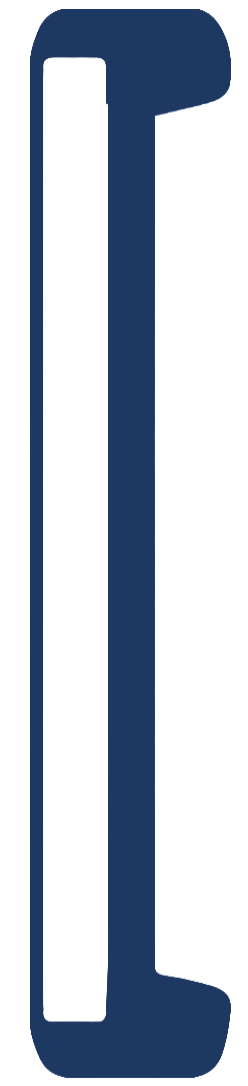
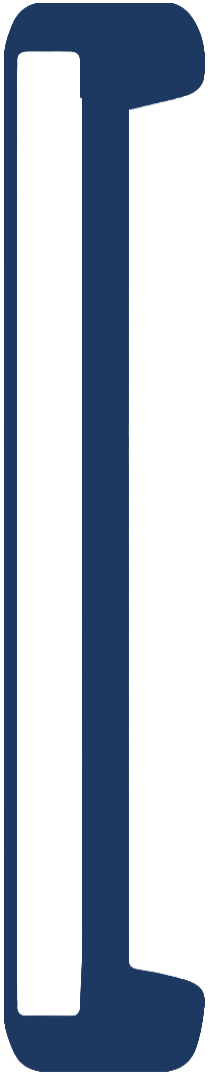
add ui changes and refactoring to pages

Changed region(s): [[0.0, 0.0, 0.9714, 1.0], [0.6, 0.092, 0.8286, 0.9201]]

diff --git a/rmr/app/search/page.tsx b/rmr/app/search/page.tsx
@@ -3,6 +3,9 @@
 import { useState, useEffect } from "react";
 import { useUser, UserButton, SignInButton } from "@clerk/nextjs";
 import { useRouter } from "next/navigation";
+import TopFridge from "@/components/TopFridge";
+import AuthHeader from "@/components/AuthHeader";
+import SearchForm from "@/components/SearchForm";
 
 export default function SearchPage() {
   const [searchType, setSearchType] = useState("roommate");
@@ -17,7 +20,7 @@ export default function SearchPage() {
     const location = locationQuery.trim();
 
     if (searchType === "roommate" && !query && !location) return;
-    if (searchType === "place" && !location) return;
+    if (searchType === "places" && !location) return;
 
     try {
       const res = await fetch("/api/search", {
@@ -26,7 +29,7 @@ export default function SearchPage() {
         body: JSON.stringify({
           searchType,
           roommateName: searchType === "roommate" ? query : undefined,
-          location: searchType === "place" ? location : location || undefined,
+          location: searchType === "places" ? location : location || undefined,
         }),
       });
 
@@ -53,99 +56,33 @@ export default function SearchPage() {
 
   return (
     <main className="min-h-screen bg-[#315d8d] pl-4 pr-4">
-      <div className="bg-[#f5f5f5] rounded-[96px] shadow-lg p-8 min-h-screen">
-        {/* Fridge handle */}
-        <img
-          src="/handle.png"
-          alt="Fridge Handle"
-          className="absolute left-0 ml-24 top-[7.5rem] w-36 h-auto object-contain"
-        />
-
-        {/* shineeeee left */}
-        <img
-          src="/shine-left-crop.png"
-          alt="shine"
-          className="absolute left-0 top-0 mt-1 ml-6 w-xs h-auto object-cover"
-        />
-        {/* shineeeee right */}
-        <img
-          src="/shine-right-crop.png"
-          alt="shine"
-          className="absolute right-0 top-0 mt-1 mr-6 w-xs h-auto object-cover"
-        />
-
-        <div className="absolute top-20 right-28 z-50">
-          {isSignedIn ? (
-            <UserButton /> // Clerk's UserButton will display the user's profile
-          ) : (
-            <SignInButton mode="modal">
-              <button className="bg-navy-blue text-white px-4 py-2 rounded-full hover:bg-navy-blue/90 ml-90">
-                Log In
-              </button>
-            </SignInButton>
-          )}
-        </div>
+      <TopFridge>
+        <AuthHeader></AuthHeader>
+        <div className="absolute top-0 left-0 mt-[3.5em] ml-[6rem] w-[7rem] h-auto z-50">
+          <img src="logo.png" alt="Logo"/>
+          </div>
 
         {/* Search Form Inline */}
         <div className="flex flex-col items-center gap-6 mt-[13rem] font-lazyDog">
           {/* Heading */}
-          <h1 className="text-[10rem] font-lazyDog text-darkblue text-center leading-none">
+          <h1 className="text-[9rem] font-lazyDog text-darkblue text-center leading-none">
             Search
           </h1>
           <p className="text-lg text-darkblue italic text-center -mt-7">
             Search for a roommate or housing.
           </p>
 
-          {/* Inline Form */}
-          <div className="flex flex-col sm:flex-row gap-2 w-64 max-w-5xl justify-center mt-5">
-            {/* Select */}
-            <select
-              value={searchType}
-              onChange={(e) => setSearchType(e.target.value)}
-              className="px-4 py-2 rounded-md bg-[#d8e1ec] border font-lazyDog text-darkblue"
-            >
-              <option value="roommate">Roommate</option>
-              <option value="place">Apartment/Dorm</option>
-            </select>
-
-            {/* Roommate-specific inputs */}
-            {searchType === "roommate" ? (
-              <>
-                <input
-                  type="text"
-                  placeholder="Roommate Name"
-                  value={searchQuery}
-                  onChange={(e) => setSearchQuery(e.target.value)}
-                  className="flex-1 px-4 py-2 border border-darkblue rounded-md"
-                />
-                <input
-                  type="text"
-                  placeholder="Where They Lived"
-                  value={locationQuery}
-                  onChange={(e) => setLocationQuery(e.target.value)}
-                  className="flex-1 px-4 py-2 border border-darkblue rounded-md"
-                />
-              </>
-            ) : (
-              <input
-                type="text"
-                placeholder="Search for apartment"
-                value={locationQuery}
-                onChange={(e) => setLocationQuery(e.target.value)}
-                className="flex-1 px-4 py-2 border border-darkblue rounded-md"
-              />
-            )}
-
-            {/* GO Button */}
-            <button
-              onClick={handleSearch}
-              className="bg-darkblue text-white px-6 py-2 rounded-lg font-bold font-lazyDog hover:bg-blue-800 hover:transition"
-            >
-              GO
-            </button>
-          </div>
+          <SearchForm
+            searchType={searchType}
+            searchQuery={searchQuery}
+            locationQuery={locationQuery}
+            setSearchType={setSearchType}
+            setSearchQuery={setSearchQuery}
+            setLocationQuery={setLocationQuery}
+            onSearch={handleSearch}
+          />
         </div>
-      </div>
+      </TopFridge>
     </main>
   );
 }

diff --git a/rmr/components/SearchForm.tsx b/rmr/components/SearchForm.tsx
@@ -1,0 +1,71 @@
+// components/SearchForm.tsx
+import React from "react";
+
+type Props = {
+  searchType: string;
+  searchQuery: string;
+  locationQuery: string;
+  setSearchType: (value: string) => void;
+  setSearchQuery: (value: string) => void;
+  setLocationQuery: (value: string) => void;
+  onSearch: () => void;
+};
+
+export default function SearchForm({
+  searchType,
+  searchQuery,
+  locationQuery,
+  setSearchType,
+  setSearchQuery,
+  setLocationQuery,
+  onSearch,
+}: Props) {
+  return (
+    <div className="flex items-center gap-1">
+      <select
+        value={searchType}
+        onChange={(e) => setSearchType(e.target.value)}
+        className="px-4 py-2 rounded-md bg-[#d8e1ec] border text-darkblue"
+      >
+        <option value="roommate">Roommate</option>
+        <option value="housing">Housing</option>
+      </select>
+
+      <div className="w-[25rem] flex gap-1">
+        {searchType === "roommate" ? (
+          <>
+            <input
+              type="text"
+              placeholder="Roommate Name"
+              value={searchQuery}
+              onChange={(e) => setSearchQuery(e.target.value)}
+              className="w-1/2 px-4 py-2 border border-darkblue rounded-md"
+            />
+            <input
+              type="text"
+              placeholder="Housing Lived"
+              value={locationQuery}
+              onChange={(e) => setLocationQuery(e.target.value)}
+              className="w-1/2 px-4 py-2 border border-darkblue rounded-md"
+            />
+          </>
+        ) : (
+          <input
+            type="text"
+            placeholder="Apartment/Dorm Name"
+            value={locationQuery}
+            onChange={(e) => setLocationQuery(e.target.value)}
+            className="w-full px-4 py-2 border border-darkblue rounded-md"
+          />
+        )}
+      </div>
+
+      <button
+        onClick={onSearch}
+        className="bg-darkblue text-white px-6 py-2 rounded-lg font-bold font-lazyDog hover:bg-blue-800 hover:transition"
+      >
+        GO
+      </button>
+    </div>
+  );
+}

diff --git a/rmr/components/BottomFridge.tsx b/rmr/components/BottomFridge.tsx
@@ -13,19 +13,19 @@ export default function BottomFridge({
         style={{ boxShadow: "0 -4px 4px -2px rgba(0, 0, 0, 0.2)" }}
       >
         <img
-          src="/handle.png"
+          src="/handle-short.png"
           alt="Fridge Handle"
-          className="absolute left-0 ml-24 top-0 mt-28 w-36 h-auto object-contain"
+          className="absolute left-0 ml-24 top-0 mt-24 w-36 h-auto object-contain z-0"
         />
         <img
           src="/shine-left.png"
           alt="shine"
-          className="absolute left-0 top-0 mt-3 ml-4 w-xs h-auto object-contain"
+          className="absolute left-0 top-0 mt-3 ml-4 w-xs h-auto object-contain z-0"
         />
         <img
           src="/shine-right.png"
           alt="shine"
-          className="absolute right-0 top-0 mt-3 mr-4 w-xs h-auto object-contain"
+          className="absolute right-0 top-0 mt-3 mr-4 w-xs h-auto object-contain z-0"
         />
 
         {children}

diff --git a/rmr/app/layout.tsx b/rmr/app/layout.tsx
@@ -23,7 +23,7 @@ export default function RootLayout({
         variables: {
           colorPrimary: "#1e3a8a",
           borderRadius: "8px",
-          fontFamily: "'Lazy Dog', cursive",
+          fontFamily: "'Lazy Dog', sans-serif",
         },
       }}
       localization={{
@@ -44,7 +44,7 @@ export default function RootLayout({
       afterSignUpUrl="/search"
     >
       <html lang="en">
-        <body style={{ fontFamily: "'Lazy Dog', cursive" }}>
+        <body style={{ fontFamily: "'Lazy Dog', sans-serif" }}>
           {children}
         </body>
       </html>

diff --git a/rmr/components/TopFridge.tsx b/rmr/components/TopFridge.tsx
@@ -12,9 +12,9 @@ export default function FridgeLayout({
       style={{ boxShadow: "0 4px 4px -2px rgba(0, 0, 0, 0.2)" }}
     >
       <img
-        src="/handle.png"
+        src="/handle-short.png"
         alt="Fridge Handle"
-        className="absolute left-0 ml-24 top-0 mt-24 w-36 h-auto object-contain z-10"
+        className="absolute left-0 ml-24 top-0 mt-40 w-36 h-auto object-contain z-10"
       />
       <img
         src="/shine-left-crop.png"

diff --git a/rmr/app/api/search/route.ts b/rmr/app/api/search/route.ts
@@ -6,7 +6,7 @@ export async function POST(req: Request) {
     const { searchType, roommateName, location } = await req.json();
 
     const supabaseUrl = process.env.NEXT_PUBLIC_SUPABASE_URL;
-    const supabaseKey = process.env.SUPABASE_SERVICE_ROLE_KEY;
+    const supabaseKey = process.env.NEXT_PUBLIC_SUPABASE_ANON_KEY;
 
     if (!supabaseUrl || !supabaseKey) {
       return NextResponse.json(

diff --git a/rmr/components/Logo.tsx b/rmr/components/Logo.tsx
@@ -1,0 +1,13 @@
+import React from "react";
+
+export default function Logo() {
+  return (
+    <div className="flex items-center justify-between w-full h-16 bg-[#f5f5f5] rounded-[96px] shadow-lg p-4">
+      <img
+        src="/logo.png"
+        alt="Logo"
+        className="w-16 h-16 object-contain left-0 "
+      />
+    </div>
+  );
+}
